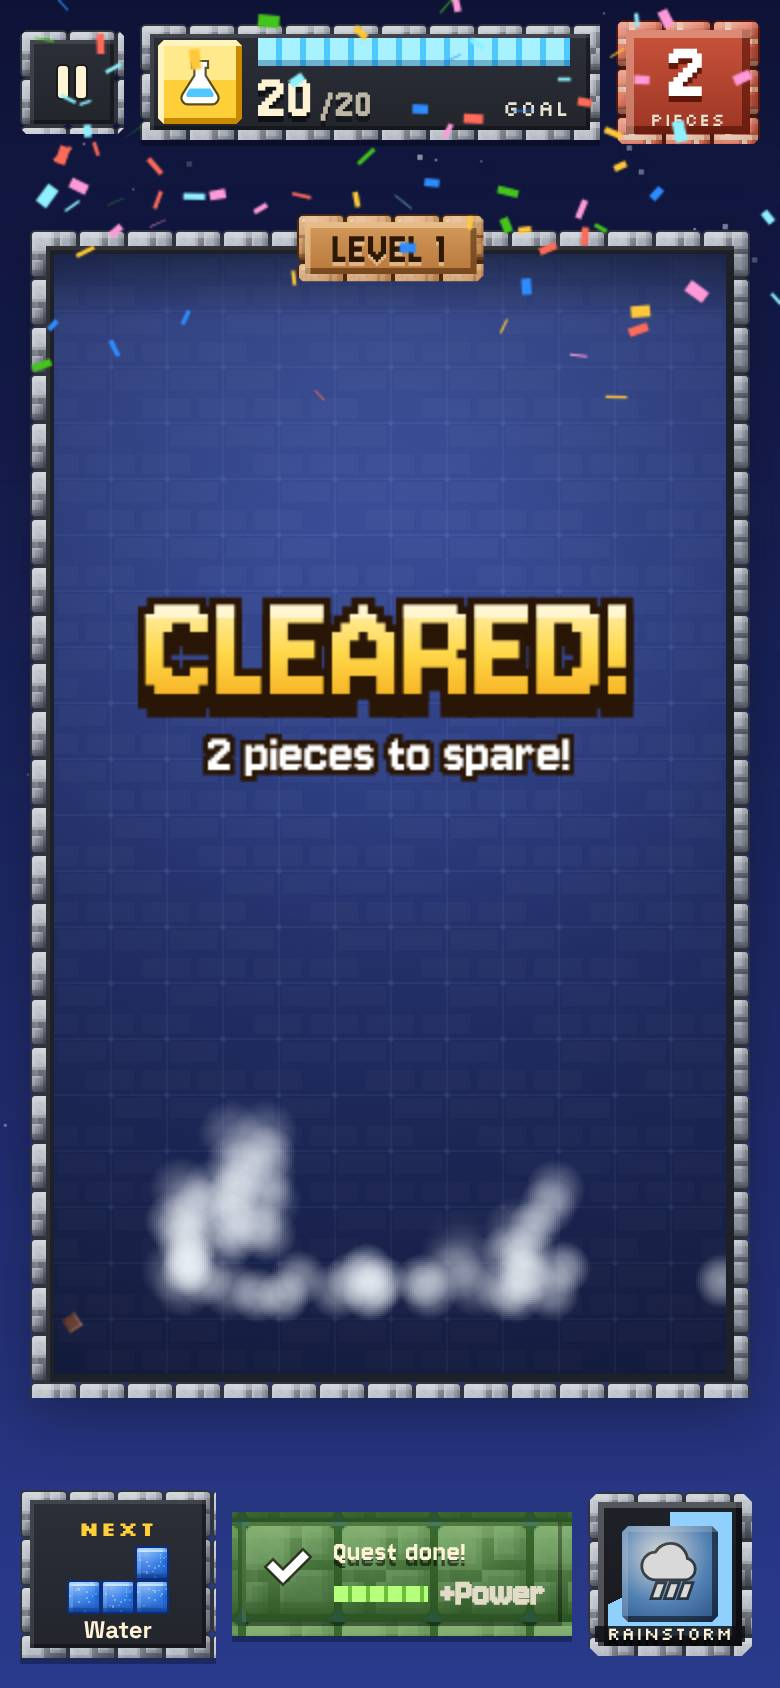
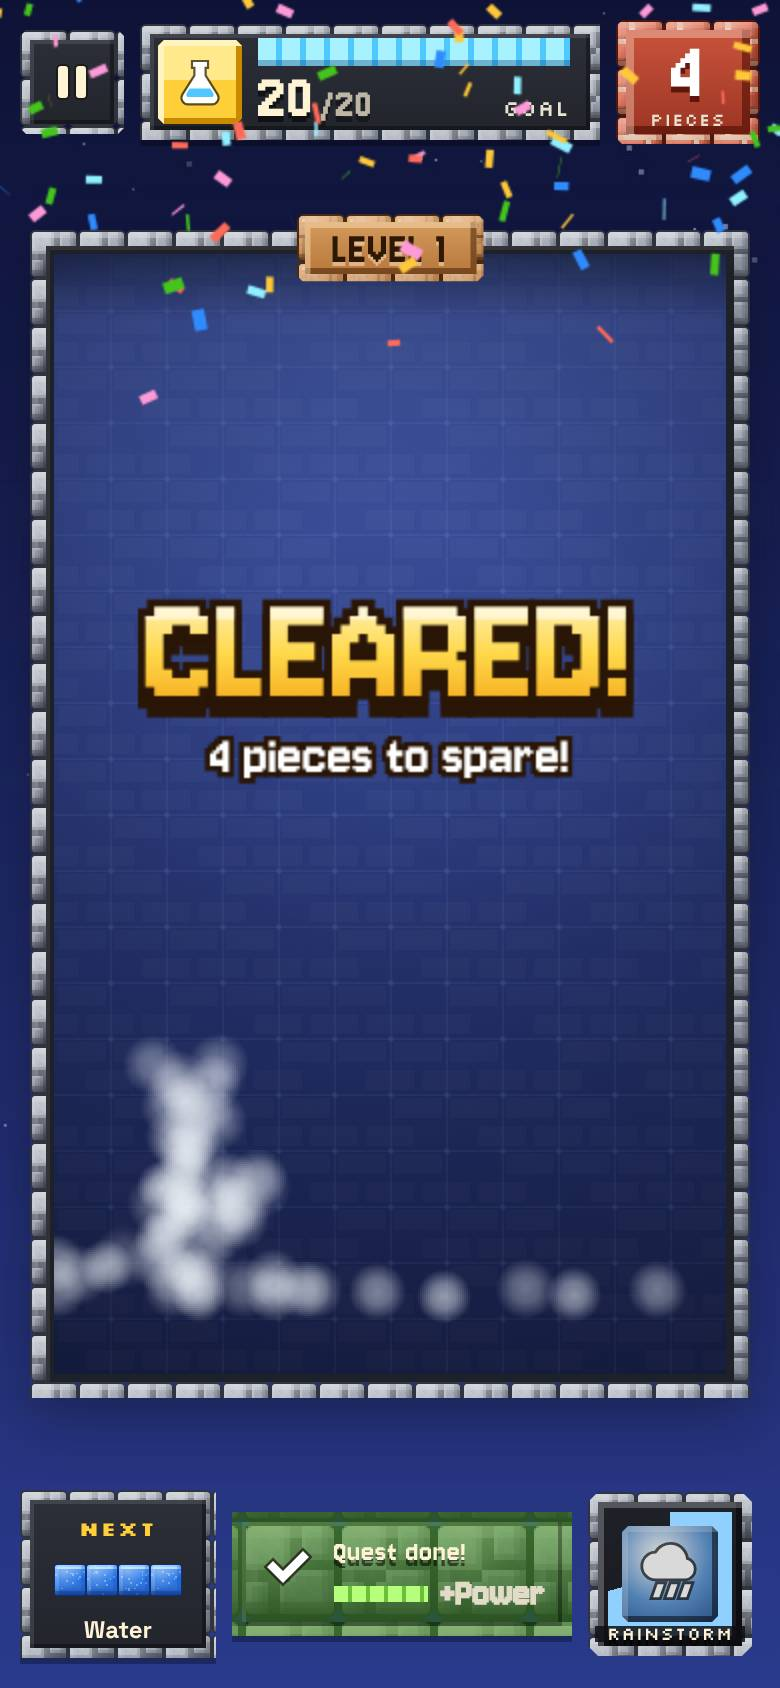
Sand mode: grains touching at a corner count as connected
A one-grain diagonal staircase of one color now bridges wall to wall, so sand that
visibly links up across offset pixels clears as it should.

Claude-Session: https://claude.ai/code/session_01HTwA4ozsFzP6UEhLU9rKwh

diff --git a/src/modes/sandcore.js b/src/modes/sandcore.js
@@ -1,6 +1,6 @@
 // Sand mode rules (no drawing). Pieces are one color of sand. A piece falls as a solid block;
 // the moment it lands it breaks into grains that pour and slide. Any connected patch of one
-// color that reaches from the left wall to the right wall clears. Clear patches to score; the
+// color that reaches from the left wall to the right wall clears (corners count as touching). Clear patches to score; the
 // game ends when the sand reaches the top.
 //
 // The board is CW x CH cells of G x G grains. Everything is in grain units except piece
@@ -174,7 +174,8 @@ function pour(s, flip) {
   return moved;
 }
 
-// A color patch connected (4-way) from the left wall to the right wall clears.
+// A color patch connected from the left wall to the right wall clears. Grains touching only at
+// a corner count as connected, so a diagonal staircase of one color is a fair bridge.
 const seen = new Int32Array(GW * GH);
 let stamp = 0;
 const queue = new Int32Array(GW * GH);
@@ -195,7 +196,8 @@ function findBridges(s) {
       const i = queue[head++];
       const x = i % GW;
       if (x === GW - 1) right = true;
-      const nb = [x > 0 ? i - 1 : -1, x < GW - 1 ? i + 1 : -1, i - GW, i + GW];
+      const l = x > 0, r = x < GW - 1;
+      const nb = [l ? i - 1 : -1, r ? i + 1 : -1, i - GW, i + GW, l ? i - GW - 1 : -1, r ? i - GW + 1 : -1, l ? i + GW - 1 : -1, r ? i + GW + 1 : -1];
       for (const n of nb) {
         if (n < 0 || n >= GW * GH || seen[n] === stamp || c[n] !== v || s.flash[n] > 0) continue;
         seen[n] = stamp;

diff --git a/test/sand.test.js b/test/sand.test.js
@@ -59,3 +59,19 @@ test('the game ends when the sand reaches the top', () => {
   }
   assert.ok(s.over);
 });
+
+test('a one-grain diagonal staircase counts as a bridge', () => {
+  const s = createSand({ rand: mulberry32(13) });
+  s.piece = null;
+  // Fill the floor with red, then cut a blue staircase through it that only touches at corners.
+  for (let x = 0; x < GW; x++) for (let y = GH - 20; y < GH; y++) s.cell[y * GW + x] = 4;
+  for (let x = 0; x < GW; x++) s.cell[(GH - 2 - Math.floor(x / 4)) * GW + x] = 1;
+  // Break the red so it can't bridge on its own.
+  for (let y = GH - 20; y < GH; y++) if (s.cell[y * GW + 30] === 4) s.cell[y * GW + 30] = 3;
+  for (let x = 0; x < GW; x++) { const y = GH - 2 - Math.floor(x / 4); if (x % 4 === 3 && x < GW - 1) { assert.equal(s.cell[(y - 1) * GW + x + 1], 1); assert.notEqual(s.cell[y * GW + x + 1], 1, 'only a corner touches'); } }
+  const ev = run(s, 0.05);
+  const clear = ev.find((e) => e.type === 'clear');
+  assert.ok(clear, 'the staircase clears');
+  assert.equal(clear.color, 0);
+  assert.equal(clear.grains, GW);
+});

diff --git a/index.html b/index.html
@@ -12,7 +12,7 @@
   <link rel="preload" href="assets/fonts/Nunito.woff2" as="font" type="font/woff2" crossorigin>
   <!-- stamp:start (written by tools/stamp.mjs, do not edit by hand) -->
   <script>(function () {
-    var B = 'ca4de74387';
+    var B = '7ab0fbf542';
     window.BUILD = B;
     if (!window.fetch) return;
     var last = 0;
@@ -39,7 +39,7 @@
       "./src/main.js": "./src/main.js?v=9ef63aef94",
       "./src/meta.js": "./src/meta.js?v=bae22e5742",
       "./src/modes/sand.js": "./src/modes/sand.js?v=2f5f9c779b",
-      "./src/modes/sandcore.js": "./src/modes/sandcore.js?v=eaea1614ad",
+      "./src/modes/sandcore.js": "./src/modes/sandcore.js?v=ae7fa18454",
       "./src/render/board.js": "./src/render/board.js?v=bd68a2160f",
       "./src/render/color.js": "./src/render/color.js?v=bea27bd861",
       "./src/render/fx.js": "./src/render/fx.js?v=8ae6ff2d16",

diff --git a/docs/redesign/QUARRY.md b/docs/redesign/QUARRY.md
@@ -47,7 +47,7 @@ A second way to play, from the **Sand** button on the map (src/modes/sandcore.js
 
 - Each piece is one color of terracotta-style clay sand: blue, green, yellow and red to start, with orange joining at level 4 and purple at level 7.
 - A piece falls as a solid block. When it lands it breaks into grains (6×6 per cell) that pour and slide.
-- Any connected patch of one color that reaches from the left wall to the right wall flashes and clears. Clears made within 2.5 seconds of each other chain for bonus points.
+- Any connected patch of one color that reaches from the left wall to the right wall flashes and clears. Grains that touch only at a corner count as connected, so a thin diagonal staircase of one color is a fair bridge. Clears made within 2.5 seconds of each other chain for bonus points.
 - Every 1,200 points is a new level, and pieces fall faster. The game ends when the sand reaches the top. Your best score is saved on this device.
 - Controls are the same as the campaign: swipe to move, tap to rotate, flick down to drop, hold a drag down to pour faster. On a keyboard use the arrows, space and Escape.
 - The room is fired clay with a brick-framed well. The side walls are striped in the sand colors to show where a color has to reach.
